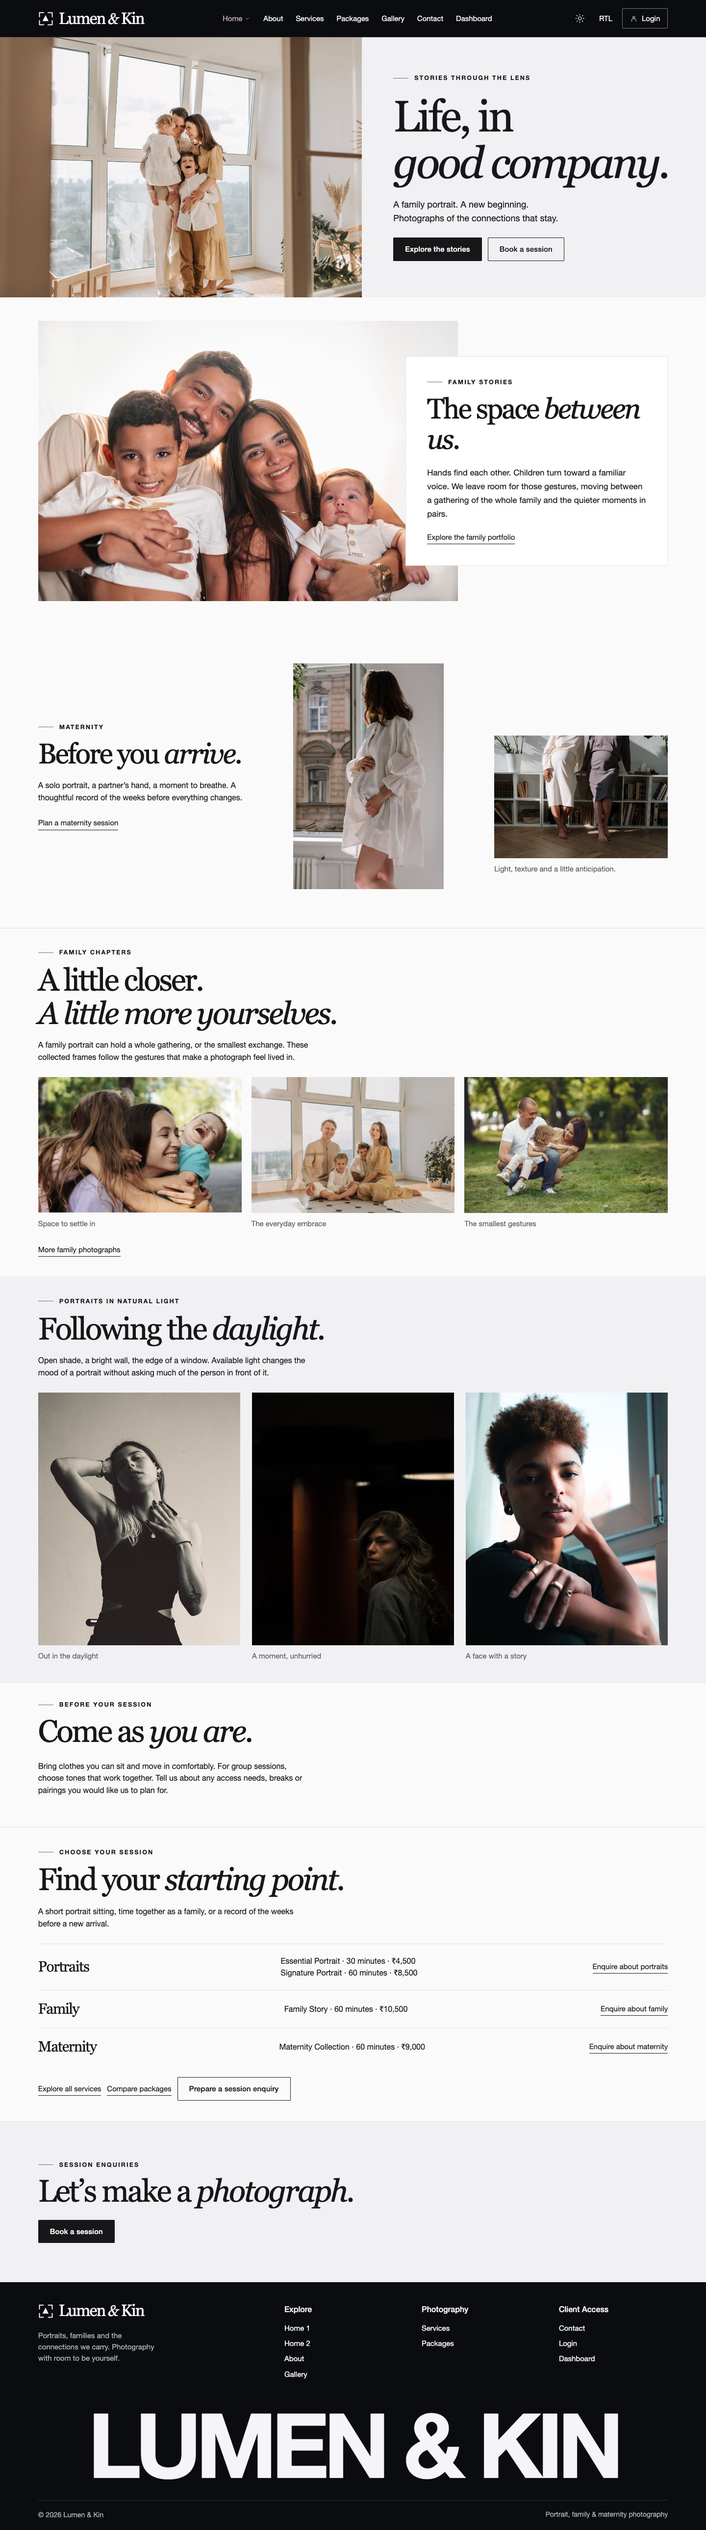
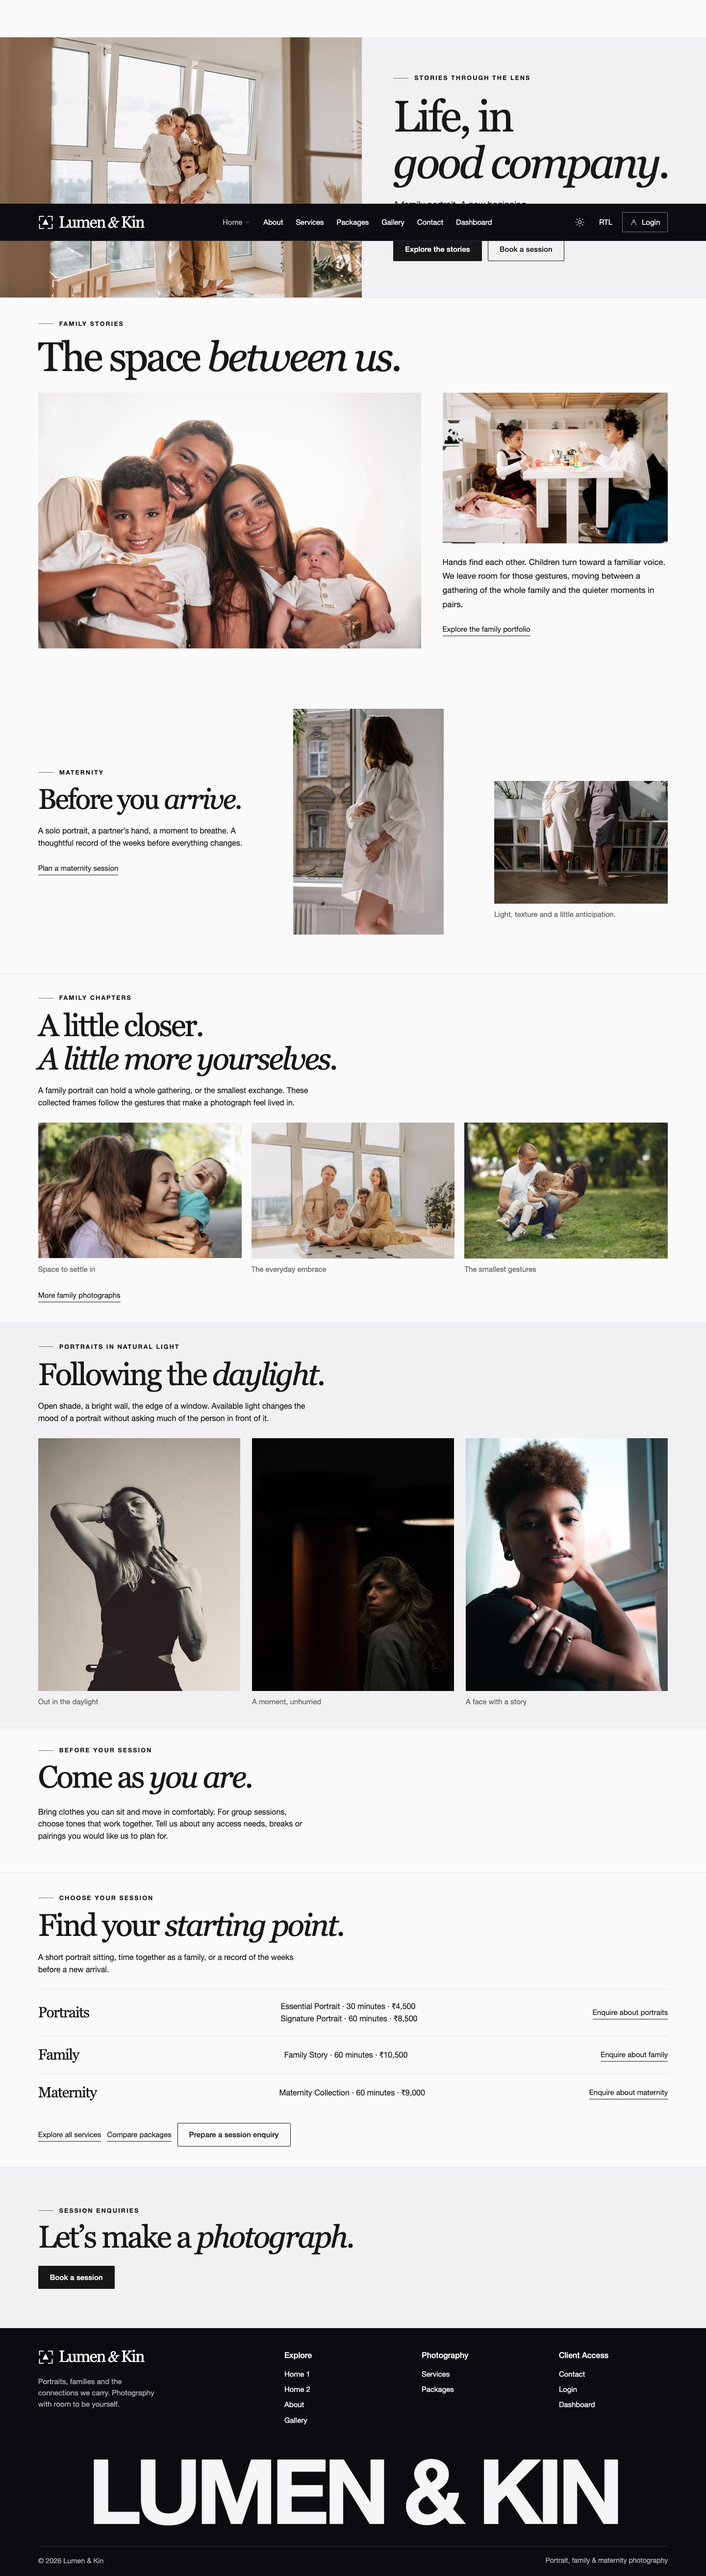
Redesign Home 2 Family Stories as a photographic journal spread

diff --git a/pages/home2.html b/pages/home2.html
@@ -16,7 +16,7 @@
     <script src="../assets/js/prefs.js?v=20261124"></script>
     <link rel="stylesheet" href="../assets/css/footer.css?v=20261124" />
     <link rel="stylesheet" href="../assets/css/corrections.css?v=20261124b" />
-    <link rel="stylesheet" href="../assets/css/editorial.css?v=20261124c" />
+    <link rel="stylesheet" href="../assets/css/editorial.css?v=20261124d" />
   </head>
   <body data-page="home2">
     <header>
@@ -198,37 +198,54 @@
         </div>
       </section>
       <section class="wrap family-story-feature">
-        <div class="family-story-intro">
-          <div>
-            <div class="eyebrow"><b></b>FAMILY STORIES</div>
-            <h2>The space <em>between us.</em></h2>
-          </div>
-          <div>
-            <p>
-              Hands find each other. Children turn toward a familiar voice. We
-              leave room for those gestures, moving between a gathering of the
-              whole family and the quieter moments in pairs.
-            </p>
-            <a class="textlink" href="gallery.html?category=Family"
-              >Explore the family portfolio</a
-            >
+        <div class="family-story-heading">
+          <div class="eyebrow"><b></b>FAMILY STORIES</div>
+          <h2>The space <em>between us.</em></h2>
+        </div>
+        <div class="family-story-spread">
+          <figure>
+            <img
+              src="../assets/images/targeted/h2-family.jpg"
+              alt="A young family photographed together in natural light"
+              loading="lazy"
+              decoding="async"
+              srcset="
+                ../assets/images/targeted/h2-family-small.jpg  640w,
+                ../assets/images/targeted/h2-family.jpg       1600w
+              "
+              sizes="(max-width:740px) 100vw, 50vw"
+              width="1600"
+              height="1067"
+            />
+          </figure>
+          <div class="family-story-aside">
+            <figure>
+              <img
+                src="../assets/images/refined/r-family08.jpg"
+                srcset="
+                  ../assets/images/refined/r-family08-small.jpg  640w,
+                  ../assets/images/refined/r-family08.jpg       1600w
+                "
+                sizes="(max-width:740px) 100vw, 35vw"
+                width="1600"
+                height="1067"
+                loading="lazy"
+                decoding="async"
+                alt="A quiet moment at a craft table"
+              />
+            </figure>
+            <div class="family-story-intro">
+              <p>
+                Hands find each other. Children turn toward a familiar voice. We
+                leave room for those gestures, moving between a gathering of the
+                whole family and the quieter moments in pairs.
+              </p>
+              <a class="textlink" href="gallery.html?category=Family"
+                >Explore the family portfolio</a
+              >
+            </div>
           </div>
         </div>
-        <figure>
-          <img
-            src="../assets/images/targeted/h2-family.jpg"
-            alt="A young family photographed together in natural light"
-            loading="lazy"
-            decoding="async"
-            srcset="
-              ../assets/images/targeted/h2-family-small.jpg  640w,
-              ../assets/images/targeted/h2-family.jpg       1600w
-            "
-            sizes="(max-width:740px) 100vw, 50vw"
-            width="1600"
-            height="1067"
-          />
-        </figure>
       </section>
       <section class="wrap maternity-editorial">
         <div class="maternity-heading">

diff --git a/assets/css/editorial.css b/assets/css/editorial.css
@@ -1,69 +1,72 @@
 .family-story-feature {
-  padding-block: 48px;
+  padding-block: 44px;
+  border-top: 1px solid var(--line);
+}
+.family-story-heading h2 {
+  font-size: clamp(44px, 5.8vw, 86px);
+  margin: 14px 0 28px;
+}
+.family-story-spread {
   display: grid;
-  grid-template-columns: repeat(12, minmax(0, 1fr));
-  align-items: center;
+  grid-template-columns: 1.7fr 1fr;
+  gap: clamp(24px, 3vw, 48px);
+  align-items: start;
 }
-.family-story-feature > figure {
-  grid-column: 1/9;
-  grid-row: 1;
-}
-.family-story-feature > figure img {
+.family-story-spread figure img {
+  display: block;
   width: 100%;
   height: auto;
-  display: block;
 }
-.family-story-intro {
-  grid-column: 8/-1;
-  grid-row: 1;
-  position: relative;
-  padding: clamp(25px, 3vw, 44px);
-  background: var(--paper);
-  border: 1px solid var(--line);
-}
-.family-story-intro h2 {
-  font-size: clamp(42px, 4vw, 64px);
-  margin: 16px 0 22px;
+.family-story-aside > figure {
+  margin-bottom: 24px;
 }
 .family-story-intro p {
   font-size: 17px;
-  line-height: 1.65;
-  margin: 0 0 20px;
+  line-height: 1.7;
+  margin: 0 0 22px;
 }
 @media (max-width: 1024px) {
-  .family-story-feature > figure {
-    grid-column: 1/-1;
-    grid-row: 1;
+  .family-story-spread {
+    grid-template-columns: 1fr;
+    gap: 26px;
   }
-  .family-story-intro {
-    grid-column: 3/-1;
-    grid-row: 2;
-    margin-top: -34px;
+  .family-story-aside {
+    display: grid;
+    grid-template-columns: 1fr 1.2fr;
+    gap: 26px;
+    align-items: center;
   }
-  .family-story-intro h2 {
-    font-size: 44px;
+  .family-story-aside > figure {
+    margin: 0;
+  }
+  .family-story-heading h2 {
+    font-size: clamp(44px, 6vw, 64px);
   }
 }
 @media (max-width: 740px) {
   .family-story-feature {
-    display: flex;
-    flex-direction: column;
     padding-block: 30px;
   }
-  .family-story-feature > figure {
-    order: -1;
+  .family-story-spread {
+    gap: 22px;
   }
-  .family-story-intro {
-    margin: 0;
-    padding: 25px;
-    border-top: 0;
-    width: 100%;
+  .family-story-heading h2 {
+    font-size: 44px;
+    margin-bottom: 24px;
   }
-  .family-story-intro h2 {
-    font-size: 40px;
+  .family-story-aside {
+    display: flex;
+    flex-direction: column;
+    gap: 24px;
+    align-items: stretch;
+  }
+  .family-story-aside > figure {
+    order: 1;
+  }
+  .family-story-intro p {
+    margin-bottom: 18px;
   }
 }
-
 .seeing-intro {
   display: grid;
   grid-template-columns: 1.1fr 1fr;

diff --git a/documentation/qa-report.md b/documentation/qa-report.md
@@ -4,7 +4,7 @@ Reviewed on 24 November 2026.
 
 ## Completed compositions
 
-Home 2's Family Stories section now combines a landscape family photograph with an overlapping story card. Tablet uses a lower-edge overlap, while mobile puts the photograph above the card. The photograph retains complete family framing and the portfolio action filters to Family.
+Home 2's Family Stories section is a two-photograph journal spread. A large editorial headline introduces a full family portrait and a smaller supporting craft-table photograph with the copy and portfolio action. Tablet moves the supporting image and text into a row below the main portrait. Mobile puts the supporting image after the copy. Both photographs retain their complete source framing.
 
 About's Working with Light section combines a landscape editorial portrait and an integrated content panel. On tablet the panel overlaps the lower edge of the photograph, while mobile uses a readable stacked composition. A Few Ways of Seeing now has three unique, consistently aligned photographs. Its supporting paragraph sits beside the heading, and each caption sits directly beneath its photograph.
 
@@ -14,6 +14,8 @@ Login and Signup retain their form structure and have distinct genuine photograp
 
 ## Latest follow-up verification
 
+The Family Stories journal spread passed 320, 390, 430, 768, 1024, 1280 and 1440px widths in light/dark and LTR/RTL. Six full-page views were captured and desktop, tablet and mobile renders inspected. All images loaded, and the portfolio link correctly filtered to seven Family photographs. Its newly activated supporting photograph has a unique source ID among public placements.
+
 The dashboard sidebar label is now **Exit**, and the mobile/tablet drawer provides the same action. Both return to Home 1 and retain browser-local sessions, selections and profile data.
 
 The updated Home 2, Services and Dashboard passed seven widths in four theme/direction combinations. Eighteen full-page screenshots cover desktop 1440px, tablet 768 × 1024 and mobile 390 × 844 in light LTR and dark RTL. Inspected rendered views, tested the Family-filtered portfolio link, checked both Services banner actions and verified both Exit destinations while retaining an existing local record.
@@ -22,7 +24,7 @@ The updated Home 2, Services and Dashboard passed seven widths in four theme/dir
 
 ## Photography and typography
 
-Eight licensed photographs were added for the targeted placements. Sources and composition guidance are documented in the [targeted asset manifest](targeted-asset-manifest.json) and [photographic credits](asset-credits.md). The placement audit confirms 66 distinct static public originals and two additional hero-slide originals. The color/monochrome comparison intentionally presents the same original twice. Gallery viewers and dashboard favorites and prints use functional representations of their corresponding images.
+Eight licensed photographs were added for the targeted placements. Sources and composition guidance are documented in the [targeted asset manifest](targeted-asset-manifest.json) and [photographic credits](asset-credits.md). The placement audit confirms 67 distinct static public originals and two additional hero-slide originals. The color/monochrome comparison intentionally presents the same original twice. Gallery viewers and dashboard favorites and prints use functional representations of their corresponding images.
 
 Computed sizes were inspected before changes. Existing body copy was 16–18px, navigation and buttons 15px, form labels 15px, captions 15px and metadata 14.4px. Global typography was retained. The new service descriptions are 17px on desktop/mobile and 16px at tablet widths, with 1.65 line height. New service metadata is 15px. Remember Me and Forgot Password use 15px except at the narrowest 320px layout.
 

diff --git a/documentation/asset-credits.md b/documentation/asset-credits.md
@@ -74,3 +74,8 @@ Eight additional photographs were selected for their intended landscape or portr
 | auth-signup.jpg | Eyüpcan Timur | [Back View of Photographer Holding a Camera in Studio](https://www.pexels.com/photo/33868458/) |
 
 Each `-small.jpg` copy derives from its corresponding original and carries the same credit and [Pexels License](https://www.pexels.com/license/). Studio and family photographs illustrate the portfolio concept.
+
+
+## Family Stories supporting photograph
+
+`assets/images/refined/r-family08.jpg` and its responsive derivative are credited to cottonbro studio. The image is used once in the public Family Stories section. [Source photograph](https://www.pexels.com/photo/5789776/) · [Pexels License](https://www.pexels.com/license/)
